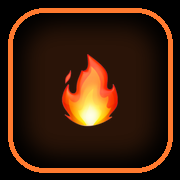
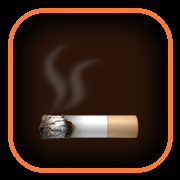
🚬香烟图标；7天柱子随数量增长；忍住记录进时间线+主屏统计

Changed region(s): [[0.1944, 0.2778, 0.7778, 0.7778]]

diff --git a/index.html b/index.html
@@ -53,6 +53,7 @@ header{display:flex;align-items:center;justify-content:space-between;
   -webkit-text-fill-color:transparent;transition:color .3s}
 .count-num.over{background:linear-gradient(180deg,#ffd0c0,#ff5c5c);-webkit-background-clip:text;background-clip:text}
 .count-label{color:var(--muted);font-size:14px;margin-top:6px;letter-spacing:1px}
+.resist-count{color:var(--ok);font-size:13px;margin-top:8px;letter-spacing:1px;min-height:18px;font-weight:600}
 .goal-bar{width:min(240px,70%);height:6px;border-radius:3px;background:var(--card2);
   margin:18px auto 8px;overflow:hidden}
 .goal-fill{height:100%;border-radius:3px;background:linear-gradient(90deg,var(--accent),var(--accent2));
@@ -98,6 +99,7 @@ header{display:flex;align-items:center;justify-content:space-between;
   font-size:14px}
 .tl .dot{width:8px;height:8px;border-radius:50%;background:var(--accent);flex:none;
   box-shadow:0 0 6px rgba(255,122,47,.6)}
+.tl .dot.resist{background:var(--ok);box-shadow:0 0 6px rgba(74,222,128,.6)}
 .tl .idx{color:var(--muted);font-size:12px;width:44px;flex:none}
 .tl .time{font-variant-numeric:tabular-nums}
 .tl .gap{margin-left:auto;color:var(--muted);font-size:12px}
@@ -196,6 +198,7 @@ header{display:flex;align-items:center;justify-content:space-between;
     <div class="counter-wrap">
       <div class="count-num" id="count-num">0</div>
       <div class="count-label" id="count-label">今天已抽</div>
+      <div class="resist-count" id="resist-count"></div>
       <div class="goal-bar"><div class="goal-fill" id="goal-fill" style="width:0%"></div></div>
       <div class="goal-text" id="goal-text"></div>
     </div>
@@ -305,7 +308,7 @@ header{display:flex;align-items:center;justify-content:space-between;
 
 <script>
 "use strict";
-const APP_VERSION = "V1.1";
+const APP_VERSION = "V1.2";
 const LS_KEY = "smoke-tracker-v1";
 const dateSub = document.getElementById("date-sub");
 
@@ -372,6 +375,10 @@ function renderMain(){
   const labelEl = document.getElementById("count-label");
   labelEl.textContent = n === 0 ? "今天还没抽，继续保持" : (n === 1 ? "今天抽了 1 根" : "今天已抽 " + n + " 根");
 
+  // 忍住统计
+  const rn = state.resisted.filter(t => dayStr(t) === today).length;
+  document.getElementById("resist-count").textContent = rn > 0 ? "💪 忍住了 " + rn + " 次" : "";
+
   // 目标
   const fill = document.getElementById("goal-fill");
   const pct = Math.min(100, Math.round(n / state.goal * 100));
@@ -397,21 +404,32 @@ function renderMain(){
   // 撤销
   document.getElementById("undo-btn").style.display = n > 0 ? "inline-block" : "none";
 
-  // 时间线
+  // 时间线（抽烟 + 忍住，合并倒序）
   const tl = document.getElementById("timeline");
-  const recs = state.records.filter(t => dayStr(t) === today).sort((a,b)=>b-a);
+  const todaySmoke = state.records.filter(t => dayStr(t) === today).sort((a,b)=>a-b); // 升序算间隔
+  const todayResist = state.resisted.filter(t => dayStr(t) === today);
   document.getElementById("tl-today").textContent = "今日 · " + (function(){const d=new Date();return (d.getMonth()+1)+"月"+d.getDate()+"日";})();
-  document.getElementById("tl-count").textContent = recs.length ? recs.length + " 根" : "";
-  if(!recs.length){
+  document.getElementById("tl-count").textContent = todaySmoke.length ? todaySmoke.length + " 根" : "";
+  const smokeGap = {};
+  todaySmoke.forEach((t, i) => { smokeGap[t] = i > 0 ? fmtGap(t - todaySmoke[i-1]) : ""; });
+  const events = [
+    ...todaySmoke.map((t, i) => ({ts:t, type:"smoke", idx: todaySmoke.length - i, gap: smokeGap[t]})),
+    ...todayResist.map(t => ({ts:t, type:"resist"}))
+  ].sort((a,b) => b.ts - a.ts);
+  if(!events.length){
     tl.innerHTML = '<li class="empty">今天还没抽，点上面的按钮开始记录</li>';
   }else{
     let html = "";
-    recs.forEach((t, i) => {
-      const prev = recs[i+1];
-      const gap = prev ? fmtGap(t - prev) : "";
-      html += '<li><span class="dot"></span><span class="idx">第 ' + (recs.length - i) + ' 根</span>' +
-        '<span class="time">' + fmtTime(t) + '</span>' +
-        (gap ? '<span class="gap">隔 ' + gap + '</span>' : '<span class="gap"></span>') + '</li>';
+    events.forEach(ev => {
+      if(ev.type === "smoke"){
+        html += '<li><span class="dot"></span><span class="idx">第 ' + ev.idx + ' 根</span>' +
+          '<span class="time">' + fmtTime(ev.ts) + '</span>' +
+          (ev.gap ? '<span class="gap">隔 ' + ev.gap + '</span>' : '<span class="gap"></span>') + '</li>';
+      }else{
+        html += '<li><span class="dot resist"></span><span class="idx" style="color:var(--ok)">忍住了</span>' +
+          '<span class="time">' + fmtTime(ev.ts) + '</span>' +
+          '<span class="gap" style="color:var(--ok)">💪 没抽</span></li>';
+      }
     });
     tl.innerHTML = html;
   }
@@ -423,12 +441,11 @@ function renderMain(){
     const d = new Date(); d.setDate(d.getDate() - i);
     days.push({ day: dayStr(d.getTime()), label: i === 0 ? "今天" : "周" + "日一二三四五六"[d.getDay()] });
   }
-  const maxN = Math.max(1, ...days.map(d => countOn(d.day)));
   trend.innerHTML = days.map(d => {
     const c = countOn(d.day);
-    const h = Math.max(3, Math.round(c / maxN * 100));
+    const h = c === 0 ? 3 : Math.min(60, c * 5 + 3);
     return '<div class="day"><div class="v">' + (c || "") + '</div>' +
-      '<div class="bar' + (d.label === "今天" ? " today" : "") + '" style="height:' + h + '%"></div>' +
+      '<div class="bar' + (d.label === "今天" ? " today" : "") + '" style="height:' + h + 'px"></div>' +
       '<div class="lbl' + (d.label === "今天" ? " today" : "") + '">' + d.label + '</div></div>';
   }).join("");
 }

diff --git a/test_logic.js b/test_logic.js
@@ -138,5 +138,30 @@ const dL2 = els.get("arc-left").getAttribute("d");
 ok(/0 0 0 188\.00 100\.00$/.test(dR2), "p=0.5 右弧到 3 点 (188,100)，实际: " + dR2);
 ok(/0 0 1 12\.00 100\.00$/.test(dL2), "p=0.5 左弧到 9 点 (12,100)，实际: " + dL2);
 
+// ---- 趋势柱子 + 忍住展示 ----
+// 15. 趋势柱子随数量线性增长（像素高度）
+R("state = { records: [], resisted: [], goal: 20, bufferEnabled: false, bufferMinutes: 3 }");
+ctx.renderMain();
+ok(/height:3px/.test(els.get("trend").innerHTML), "0 根时柱子 3px");
+ctx.addRecord();
+ok(/height:8px/.test(els.get("trend").innerHTML), "1 根时柱子 8px（随数量增长）");
+ctx.addRecord();
+ok(/height:13px/.test(els.get("trend").innerHTML), "2 根时柱子 13px（继续增长）");
+
+// 16. 忍住统计显示在主屏
+R("state = { records: [Date.now()], resisted: [Date.now()], goal: 20, bufferEnabled: false, bufferMinutes: 3 }");
+ctx.renderMain();
+ok(els.get("resist-count").textContent.indexOf("忍住了 1 次") >= 0, "主屏显示「忍住了 1 次」");
+
+// 17. 时间线合并抽烟 + 忍住
+const tlHtml = els.get("timeline").innerHTML;
+ok(tlHtml.indexOf("dot resist") >= 0, "时间线含忍住记录（绿色点）");
+ok(tlHtml.indexOf("第 1 根") >= 0, "时间线含抽烟记录");
+
+// 18. 无忍住时 resist-count 为空
+R("state = { records: [], resisted: [], goal: 20, bufferEnabled: false, bufferMinutes: 3 }");
+ctx.renderMain();
+ok(els.get("resist-count").textContent === "", "无忍住时统计为空");
+
 console.log("\n结果: " + pass + " 通过, " + fail + " 失败");
 process.exit(fail ? 1 : 0);

diff --git a/render_emoji.swift b/render_emoji.swift
@@ -1,0 +1,41 @@
+import AppKit
+import Foundation
+
+// 用法: swift render_emoji.swift <输出.png> <像素> <字号比例>
+let args = CommandLine.arguments
+let outPath = args.count > 1 ? args[1] : "emoji.png"
+let px = args.count > 2 ? Int(args[2]) ?? 512 : 512
+let scale = args.count > 3 ? Double(args[3]) ?? 0.72 : 0.72
+
+let rep = NSBitmapImageRep(bitmapDataPlanes: nil, pixelsWide: px, pixelsHigh: px,
+                           bitsPerSample: 8, samplesPerPixel: 4, hasAlpha: true,
+                           isPlanar: false, colorSpaceName: .deviceRGB,
+                           bytesPerRow: 0, bitsPerPixel: 0)!
+rep.size = NSSize(width: px, height: px)
+
+NSGraphicsContext.saveGraphicsState()
+let ctx = NSGraphicsContext(bitmapImageRep: rep)!
+NSGraphicsContext.current = ctx
+ctx.imageInterpolation = .high
+
+// 透明背景
+NSColor.clear.setFill()
+NSRect(x: 0, y: 0, width: px, height: px).fill()
+
+let fontSize = CGFloat(Double(px) * scale)
+let font = NSFont.systemFont(ofSize: fontSize)
+let attrs: [NSAttributedString.Key: Any] = [.font: font, .foregroundColor: NSColor.white]
+let str = NSAttributedString(string: "🚬", attributes: attrs)
+let strSize = str.size()
+let x = (CGFloat(px) - strSize.width) / 2
+let y = (CGFloat(px) - strSize.height) / 2
+str.draw(at: NSPoint(x: x, y: y))
+
+NSGraphicsContext.restoreGraphicsState()
+
+guard let png = rep.representation(using: .png, properties: [:]) else {
+    print("ERROR: png encode failed")
+    exit(1)
+}
+try! png.write(to: URL(fileURLWithPath: outPath))
+print("OK", outPath, "\(px)x\(px)")

diff --git a/sw.js b/sw.js
@@ -1,4 +1,4 @@
-const CACHE = "smoke-less-v2";
+const CACHE = "smoke-less-v3";
 const ASSETS = ["./", "./index.html", "./manifest.json", "./icon-192.png", "./icon-512.png", "./icon-180.png"];
 
 self.addEventListener("install", e => {

diff --git a/make_icons.py b/make_icons.py
@@ -25,7 +25,7 @@ def make_icon(size):
                         radius=radius, outline=ORANGE, width=ring_w)
 
     emoji = Image.open(EMOJI).convert("RGBA")
-    es = int(size * 0.56)
+    es = int(size * 0.80)
     emoji = emoji.resize((es, es), Image.Resampling.LANCZOS)
     img.alpha_composite(emoji, (int((size - es) / 2), int((size - es) / 2)))
     return img.convert("RGB")
